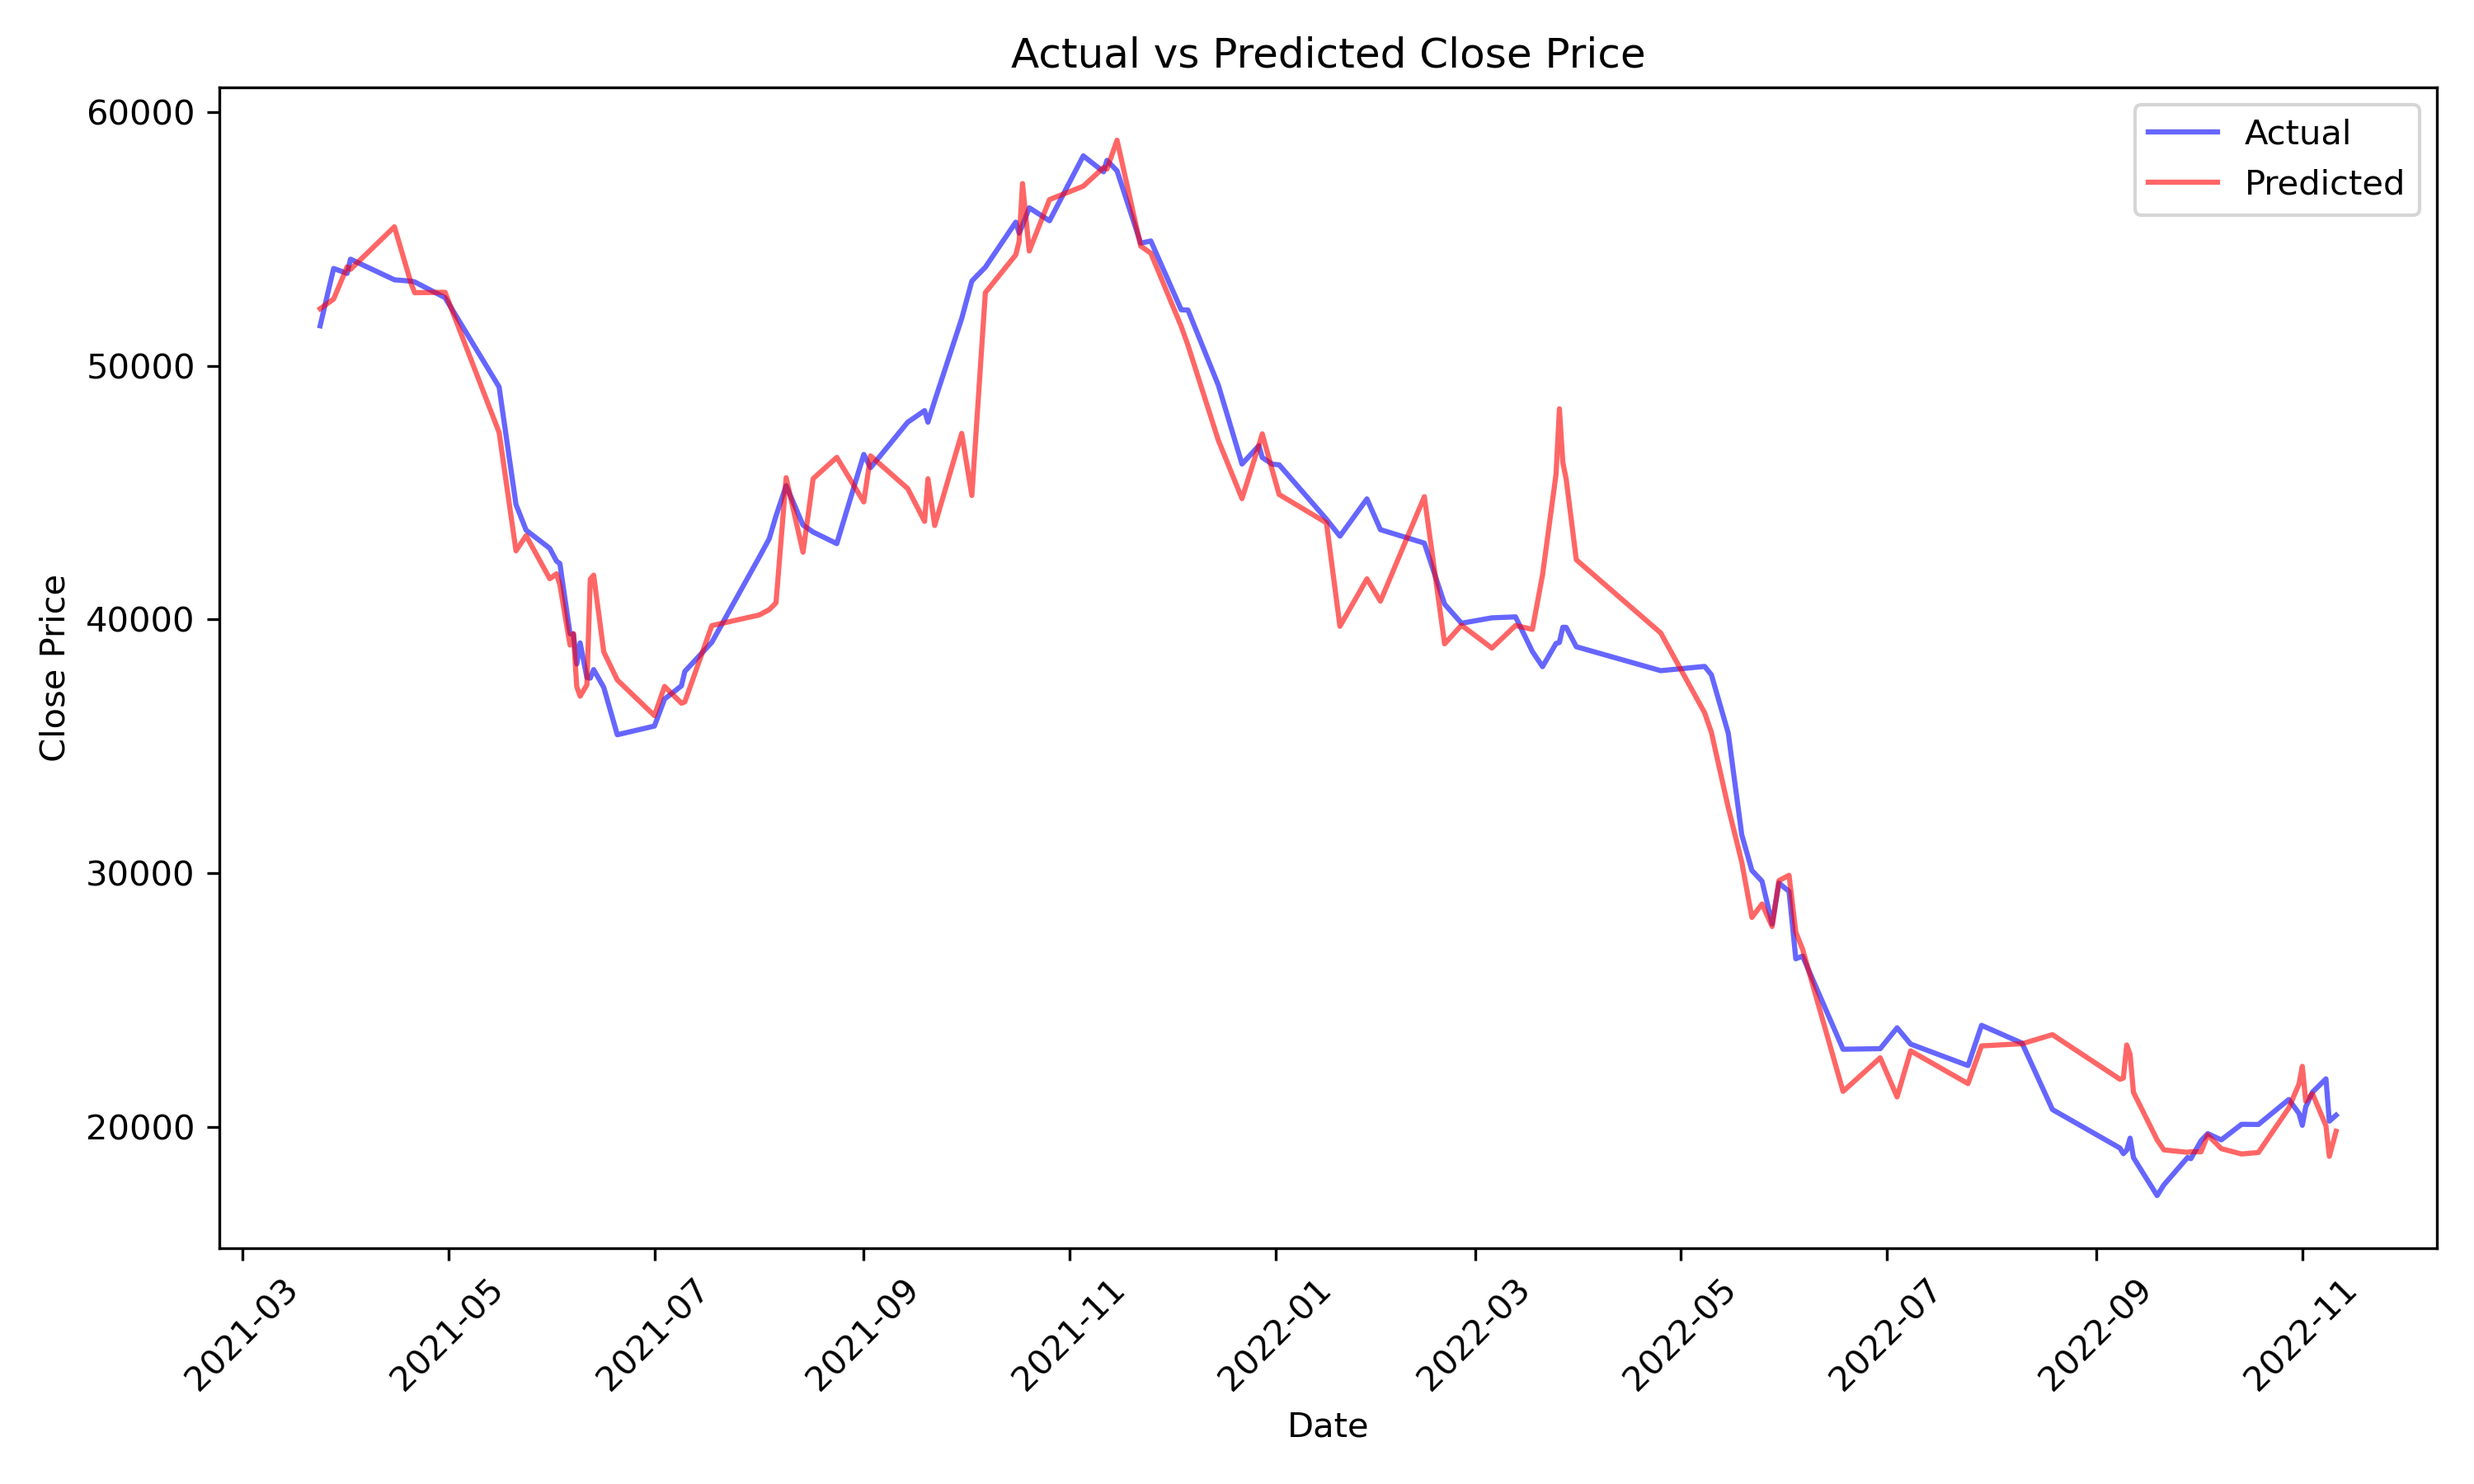
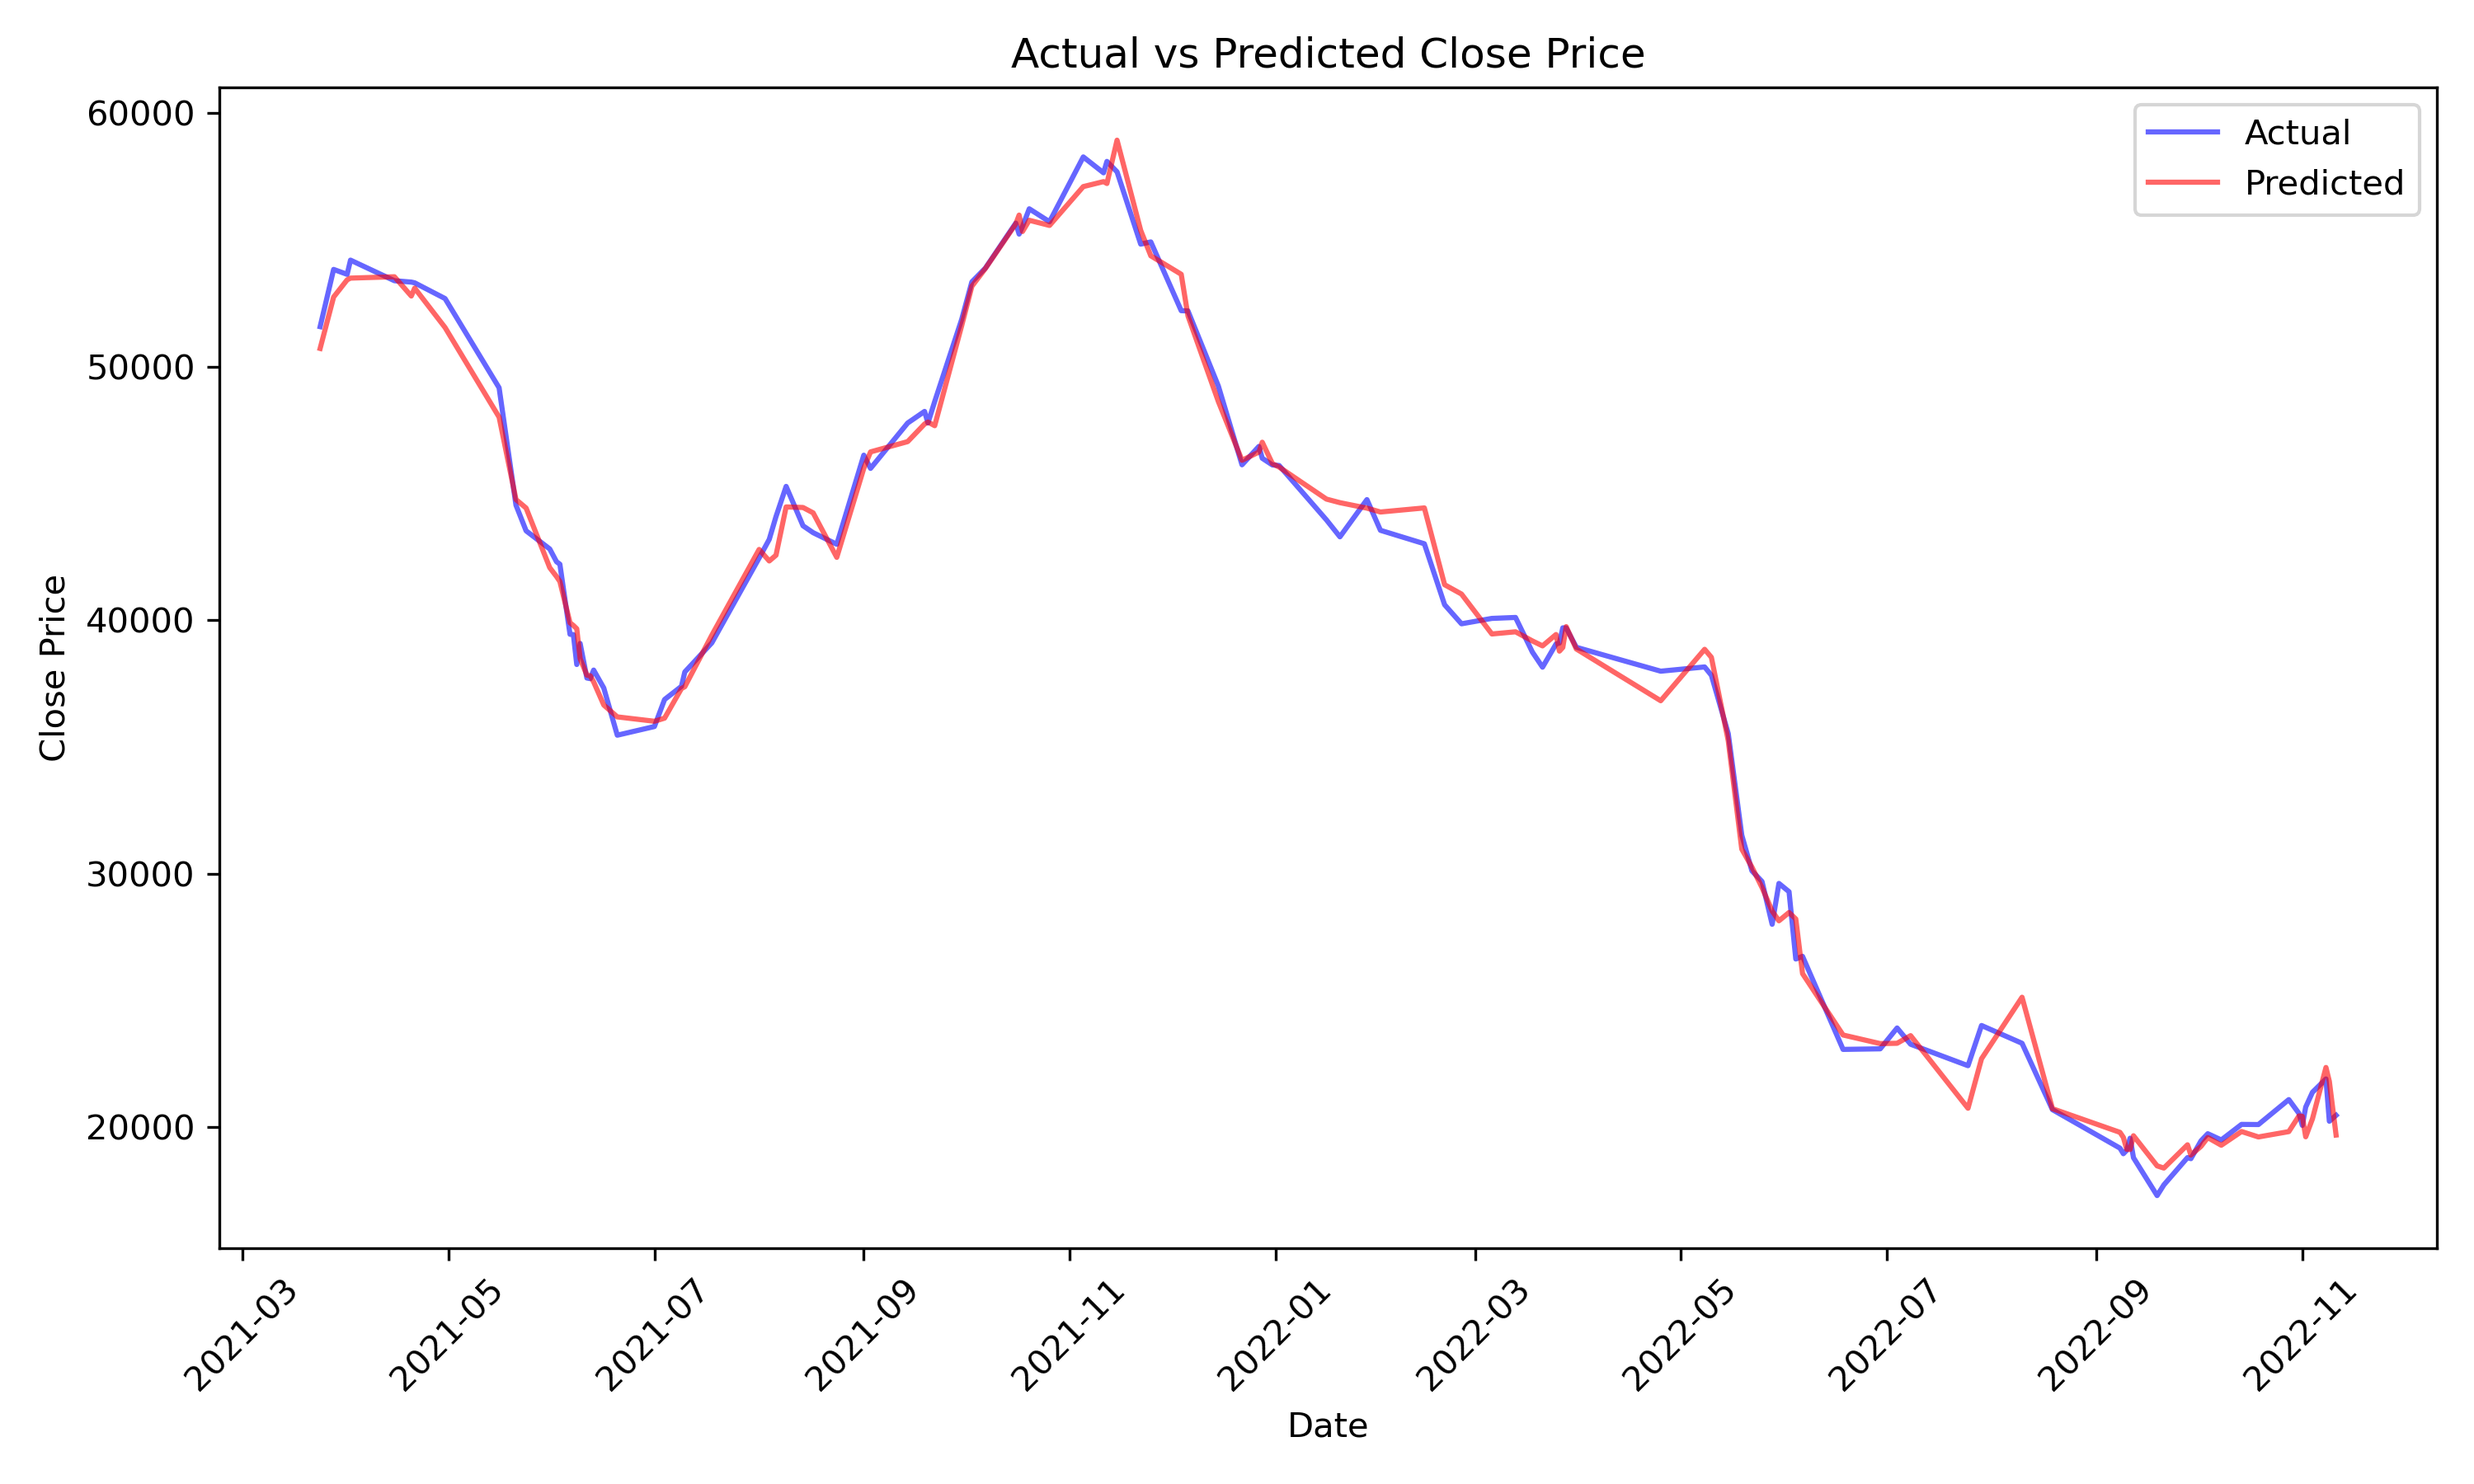
Update RF

diff --git a/Correlation_Analysis/RF_daily(without_noise).py b/Correlation_Analysis/RF_daily(without_noise).py
@@ -1,4 +1,3 @@
-# start time: 2024/12/2  22:19
 # @Author  : Sixing Wu
 # @Time    : 2024/12/2
 # @Mac, Python 3.11
@@ -32,11 +31,11 @@ def random_forest_prediction(data, feature):
         daily_info[f'prev_{x}'] = daily_info[x].shift(1)
 
     # Drop rows with NaN values (which will appear in the first row after shifting)
-    daily_info = daily_info[daily_info['Close_Combined_Monthly'].notna()]
+    daily_info = daily_info[daily_info['Close_Combined_Daily'].notna()]
 
     # Define X (features) and y (target)
     X = daily_info[variables]
-    y = daily_info['Close_Combined_Monthly']  # The current day's close price
+    y = daily_info['Close_Combined_Daily']  # The current day's close price
     dates = daily_info['Start']  # Store the dates for plotting
 
     # Split the data into training and testing sets
@@ -70,10 +69,10 @@ def random_forest_prediction(data, feature):
     plt.ylabel('Close Price')
     plt.xticks(rotation=45)
     plt.tight_layout()
-    plt.savefig('random_forest_prediction_monthly_without_noise.png', format='png', dpi=300)
+    plt.savefig('RF_Daily_without_noise.png', format='png', dpi=300)
     plt.show()
 
 # Run the function
 data = '../data/without_noise/all_features_final.csv'
-selected_feature = ['Open_Combined_Monthly', 'High_Combined_Monthly', 'Low_Combined_Monthly', 'Close_Combined_Monthly', 'Volume_Combined_Monthly', 'Market Cap_Combined_Monthly']
+selected_feature = ['Open_Combined_Daily', 'High_Combined_Daily', 'Low_Combined_Daily', 'Close_Combined_Daily', 'Volume_Combined_Daily', 'Market Cap_Combined_Daily']
 random_forest_prediction(data, selected_feature)

diff --git a/Correlation_Analysis/RF_quarterly(without_noise).py b/Correlation_Analysis/RF_quarterly(without_noise).py
@@ -74,5 +74,5 @@ def random_forest_prediction(data, feature):
 
 # Run the function
 data = '../data/without_noise/all_features_final.csv'
-selected_feature = ['Open_Combined_Weekly', 'High_Combined_Weekly', 'Low_Combined_Weekly', 'Close_Combined_Weekly', 'Volume_Combined_Weekly', 'Market Cap_Combined_Weekly']
+selected_feature = ['Open_Combined_Quarterly', 'High_Combined_Quarterly', 'Low_Combined_Quarterly', 'Close_Combined_Quarterly', 'Volume_Combined_Quarterly', 'Market Cap_Combined_Quarterly']
 random_forest_prediction(data, selected_feature)
